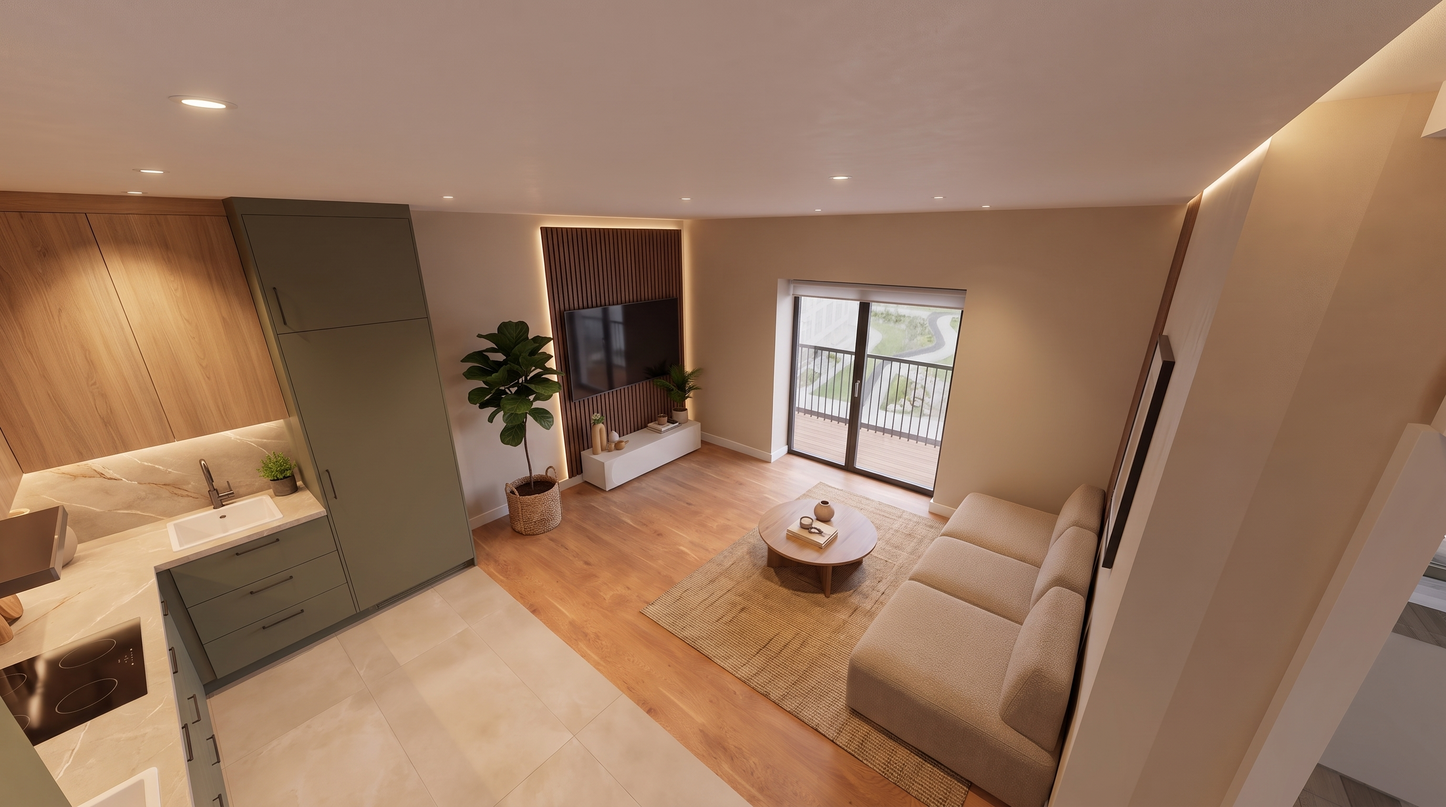
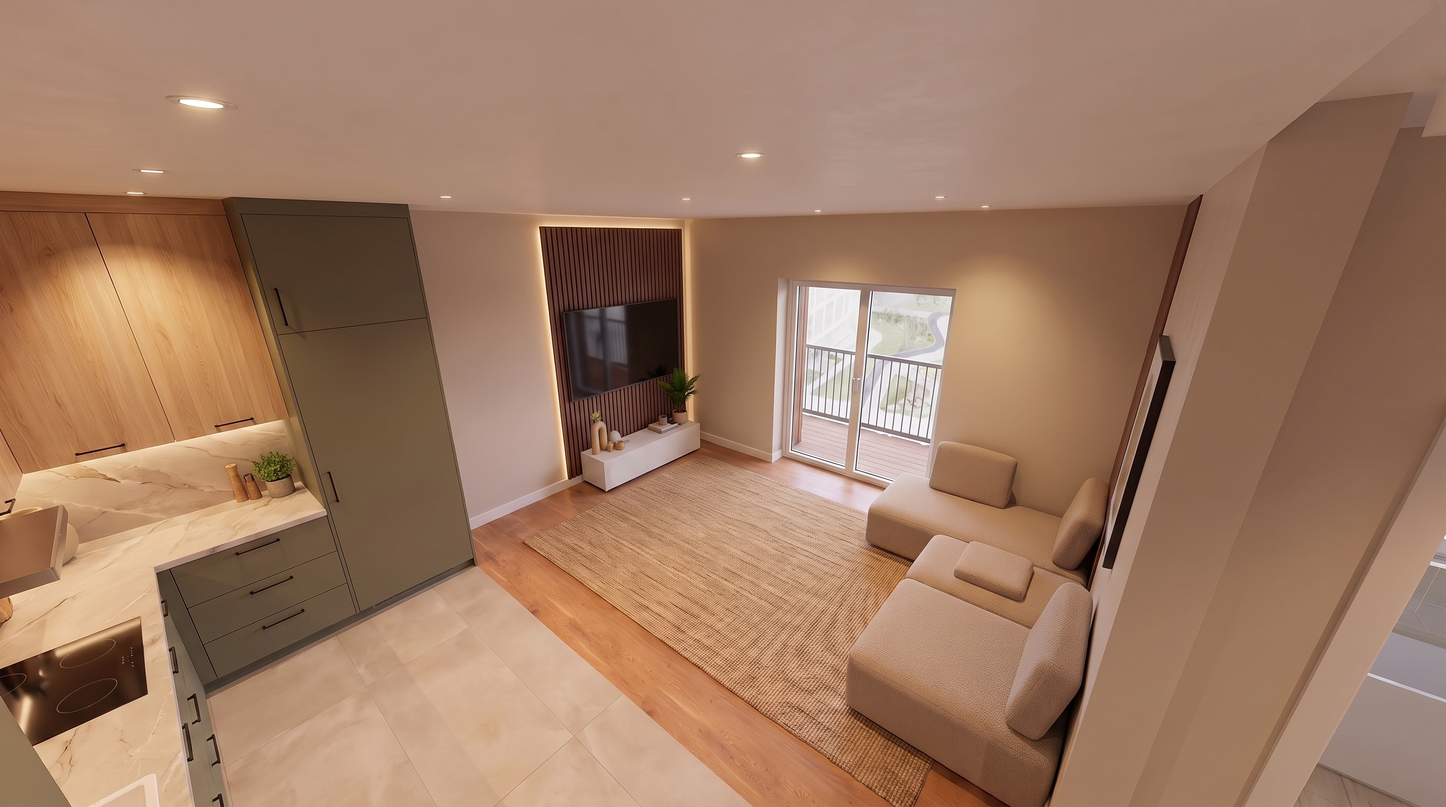
render: real dimensions in the prompt, --labels, no floor plants
The cameras sit 2.4-2.65 m up under a 2.7 m ceiling and look down, so the
model read a 22.9 m² room as a hall. Every prompt now carries the numbers
taken from the scene itself: room size, camera height, tilt and field of view,
and the footprint of each large item in frame. They are stored next to the
frame, so --reuse-frame keeps them.

--labels draws a caption on the ambiguous shapes — the 0.9 x 2.4 hall mirror
kept coming back as a door — and tells the model those captions are notes, not
something to render.

STYLE.md: floor-standing plants in baskets are out, and mirrors have their own
paragraph.

diff --git a/tools/render.js b/tools/render.js
@@ -26,8 +26,10 @@ const MAX_FIXES = 3;
 const SET = flag('set', '');   // варианты комнаты 4 в кадре: table=none,sofa=G,kitchen=B…
 const REF = flag('ref', '');   // готовый рендер другого ракурса — эталон материалов и палитры
 const AS = flag('as', '2-final');
+const LABELS = has('labels');
 
 const framePath = cam ? path.join(root, 'renders', 'frames', cam + '.png') : '';
+const factsPath = cam ? path.join(root, 'renders', 'frames', cam + '.facts.json') : '';
 const dir = cam ? path.join(root, 'renders', cam) : '';
 const pair = name => path.join(dir, cam + '-' + name);                                      // кадр и результат лежат рядом и листаются подряд
 
@@ -51,6 +53,34 @@ const img = p => ({ type: 'image', mime_type: p.endsWith('.png') ? 'image/png' :
   await page.evaluate(id => { VIZ.set(true); LIGHTING.set('lamps'); const a = document.getElementById('avatarOn'); a.checked = false; a.dispatchEvent(new Event('change')); setView(id);
     document.getElementById('ui').style.display = 'none'; document.querySelectorAll('.hint, .rl, #walkpad, #fpvhint, #camhint, #map').forEach(e => { e.style.display = 'none'; }); }, cam);
   await page.waitForTimeout(SET ? 5000 : 2500); // PBR-двойники и тени успевают собраться, у сменённого варианта — ещё и GLB
+
+  // размеры сцены в метрах: без них модель делает из маленькой комнаты зал
+  const facts = await page.evaluate(([id, labels]) => {
+    const c = CAMS.find(c => c.id === id), room = PLAN.rooms.find(r => r.id === +id.match(/^r(\d+)/)[1]);
+    const xs = room.poly.map(p => p[0]), zs = room.poly.map(p => p[1]), m2 = n => Math.round(n * 100) / 100;
+    const v = new THREE.Vector3(), seen = [];
+    Object.entries(ITEM_GROUPS).forEach(([iid, g]) => {
+      if (!g.visible || !g.parent || !g.parent.visible || g.userData.hidden) return;
+      const bb = new THREE.Box3().setFromObject(g); if (bb.isEmpty()) return;
+      bb.getCenter(v); const d = v.distanceTo(camera.position); if (d > 14) return;
+      const p = v.clone().project(camera); if (p.z > 1 || Math.abs(p.x) > 1.1 || Math.abs(p.y) > 1.1) return;
+      const it = ITEMS.find(i => i.id === iid) || {}, [w, h, dp] = g.userData.size;
+      if (Math.max(w, dp) < 0.4 || /^(led|cable|sock|ceil|switch)/.test(iid)) return; // мелочь и проводка масштаб не задают
+      if (it.room !== room.id) return;      // сквозь стены видно соседние комнаты — их предметы тут ни при чём
+      let slot = /зеркал/i.test(it.type || '');   // у PBR-двойника слот в userData может не сохраниться, тип надёжнее
+      g.traverse(o => { if (o.isMesh && o.material.userData && o.material.userData.slot === 'mirror') slot = true; });
+      seen.push({ id: iid, type: it.type || '', w: m2(w), h: m2(h), d: m2(dp), face: m2(Math.max(w, dp)), dist: m2(d), mirror: !!slot, sx: (p.x + 1) / 2, sy: (1 - p.y) / 2 });
+    });
+    seen.sort((a, b) => a.dist - b.dist);
+    if (labels) seen.filter(o => o.mirror || /зеркал|шкаф|порог/i.test(o.type)).forEach(o => {
+      const el = document.createElement('div'); el.textContent = (o.mirror ? 'MIRROR ' : /шкаф/i.test(o.type) ? 'WARDROBE ' : '') + o.face + '×' + o.h + ' m';
+      el.style.cssText = 'position:fixed;transform:translate(-50%,-50%);z-index:99;background:#fff;color:#000;font:600 15px/1.2 system-ui;padding:3px 7px;border:2px solid #000;border-radius:4px';
+      el.style.left = o.sx * innerWidth + 'px'; el.style.top = o.sy * innerHeight + 'px'; el.className = 'rlabel'; document.body.appendChild(el);
+    });
+    return { labels, room: [m2(Math.max(...xs) - Math.min(...xs)), m2(Math.max(...zs) - Math.min(...zs))], area: room.area,
+      camY: m2(c.pos[1]), tilt: Math.round((c.phi - Math.PI / 2) * 180 / Math.PI), fov: c.fov, items: seen.slice(0, 12) };
+  }, [cam, LABELS]);
+  fs.writeFileSync(factsPath, JSON.stringify(facts));
   fs.mkdirSync(path.dirname(framePath), { recursive: true });
   await page.locator('#c').screenshot({ path: framePath, timeout: 120000 });
   await browser.close();
@@ -69,6 +99,13 @@ async function send() {
   const shot = style.split(/^## /m).find(s => s.startsWith(cam));                            // «## <ракурс>» — заметки именно про этот вид
   const common = style.split(/^## /m)[0].trim();
   const meta = readMeta();
+  let facts = null; try { facts = JSON.parse(fs.readFileSync(factsPath, 'utf8')); } catch (e) {}
+  const scale = facts ? 'Real dimensions of this shot, in metres — respect them, the room is small: floor '
+    + facts.room.join(' × ') + ' (' + facts.area + ' m²), ceiling 2.70. The camera stands ' + facts.camY
+    + ' m above the floor, tilted ' + facts.tilt + '° down, with a ' + facts.fov
+    + '° field of view — a wide-angle shot taken high in a small room, so keep furniture large relative to the walls and do not stretch the space into a hall. Objects in frame, width × height × depth: '
+    + facts.items.map(o => o.id + ' ' + o.w + '×' + o.h + '×' + o.d + (o.mirror ? ' (a wall mirror, not a door or a window)' : '')).join('; ') + '.'
+    + (facts.labels ? ' The white boxed captions drawn on the reference are notes to you, naming what an ambiguous shape really is and how big it is; render those objects as real objects and put no text, caption or label anywhere in the photograph.' : '') : '';
   const refPath = REF && (fs.existsSync(REF) ? REF : path.join(root, 'renders', REF, REF + '-2-final.jpg'));
   if (REF && !fs.existsSync(refPath)) { console.error('нет эталона ' + rel(refPath) + ': сначала отрендерить ' + REF); process.exit(1); }
   const prev = pair(AS + '.jpg');
@@ -81,13 +118,13 @@ async function send() {
     // правка, а не перегенерация: что менять — одной фразой, всё остальное сохраняется дословно; якорь геометрии идёт последним, от него наследуется кадрирование
     prompt = 'Image 1 is a photorealistic render to edit. Image 2 is the 3D scene it was made from — the geometry anchor: room shape, openings, camera and the placement of large furniture must match it.\n\n'
       + 'Keep everything else in image 1 exactly the same — same geometry, same camera, same materials, same lighting, same aspect ratio. Only fix: ' + fix + '\n\n'
-      + (shot ? 'Shot notes: ' + shot.trim() + '\n\n' : '') + 'Style reminder: ' + common.split('\n\n').slice(3).join(' ').slice(0, 900);
+      + (shot ? 'Shot notes: ' + shot.trim() + '\n\n' : '') + (scale ? scale + '\n\n' : '') + 'Style reminder: ' + common.split('\n\n').slice(3).join(' ').slice(0, 900);
     input = [{ type: 'text', text: prompt }, img(prev), img(framePath)];   // якорь последним: от него наследуется кадрирование
     console.log('правка ' + fixes + '/' + MAX_FIXES + ' на ' + MODEL);
   } else {
     fixes = 0;
     const refNote = REF ? '\nImage 1 is a finished render of the same flat from another angle. Copy its finishes exactly: the same cabinet colour and fronts, the same floor, worktop, backsplash, wall paint, textiles and light temperature. It is a material reference only — take no geometry from it. The last image is the 3D scene for this shot and the only source of geometry, camera and furniture placement.' : '';
-    prompt = [common, shot ? '\n## ' + shot.trim() : '', refNote, flag('note', '') && '\nAlso for this shot: ' + flag('note', '')].filter(Boolean).join('\n');
+    prompt = [common, shot ? '\n## ' + shot.trim() : '', scale, refNote, flag('note', '') && '\nAlso for this shot: ' + flag('note', '')].filter(Boolean).join('\n');
     input = [{ type: 'text', text: prompt }].concat(REF ? [img(refPath)] : []).concat([img(framePath)]);
     console.log('база на ' + MODEL + ', ' + SIZE + ' ' + ASPECT);
   }

diff --git a/renders/STYLE.md b/renders/STYLE.md
@@ -14,9 +14,13 @@ Furniture: rounded, low-profile, substantial silhouettes; sofa without armrests,
 
 Lighting: layered warm light (~2700K), no single central ceiling fixture — recessed spotlights, integrated LED strip lighting along cabinets, shelves and niches, a few small sconces as accents only. Light comes from the windows and from the fixtures already visible in the reference, falls off towards the far corners, and every object casts a contact shadow where it meets the floor. The view through a window keeps its detail instead of burning out to white.
 
-Decor: minimal and natural — wood and bamboo accessories in chestnut/pine tones, one statement floor plant in a woven basket per zone (fiddle-leaf fig, small palm, or potted orange tree) plus a few smaller plants elsewhere, always clear of doorways and walking paths. No frescoes, no figurines, no moldings or ornate trim, no visual clutter, no readable text or brand logos. A slightly lived-in, realistic level of tidiness is welcome, not a showroom-perfect scene.
+Decor: minimal and natural — wood and bamboo accessories in chestnut/pine tones. The floor stays clear: every plant that appears must be a small one standing on a shelf, a windowsill or a worktop. This flat has no floor-standing plants and no plants in baskets or pots on the floor — that space belongs to the people and the dog. No frescoes, no figurines, no moldings or ornate trim, no visual clutter, no readable text or brand logos. A slightly lived-in, realistic level of tidiness is welcome, not a showroom-perfect scene.
 
 Windows: minimal blackout roller blinds mounted tight inside the window recess — no fabric curtains or drapery of any kind.
+
+Mirrors: the reference marks every mirror, and a mirror stays a mirror — a frameless glass panel reflecting the room back, never turned into a door, a window, a picture or a wardrobe front. The tall mirror in the hall is 0.90 m wide and 2.40 m high on a plain wall; the bathroom mirrors sit above their basins. Their reflections show the room they stand in, lit as the room is lit.
+
+Openings: a plain rectangle on a wall is a doorway or a mirror as the shot notes say, never an invented window. Windows and balcony doors exist only where the reference shows them.
 
 Camera: 24 mm architectural lens, natural depth of field, no fisheye distortion, sharp across the room.
 
